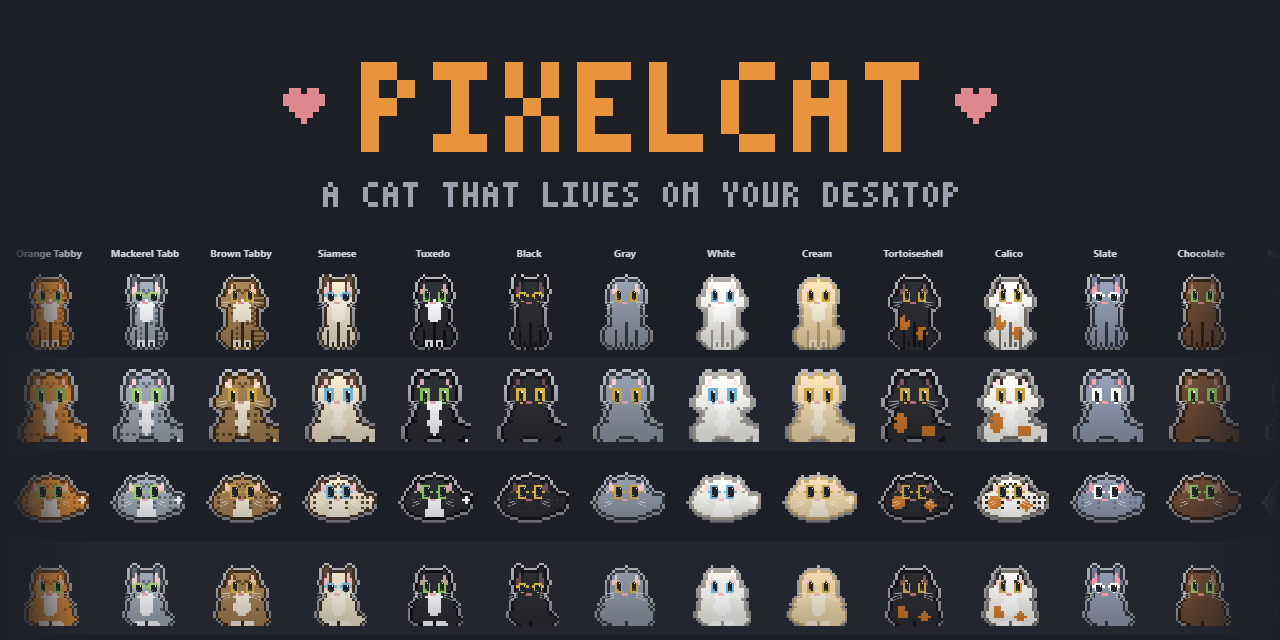
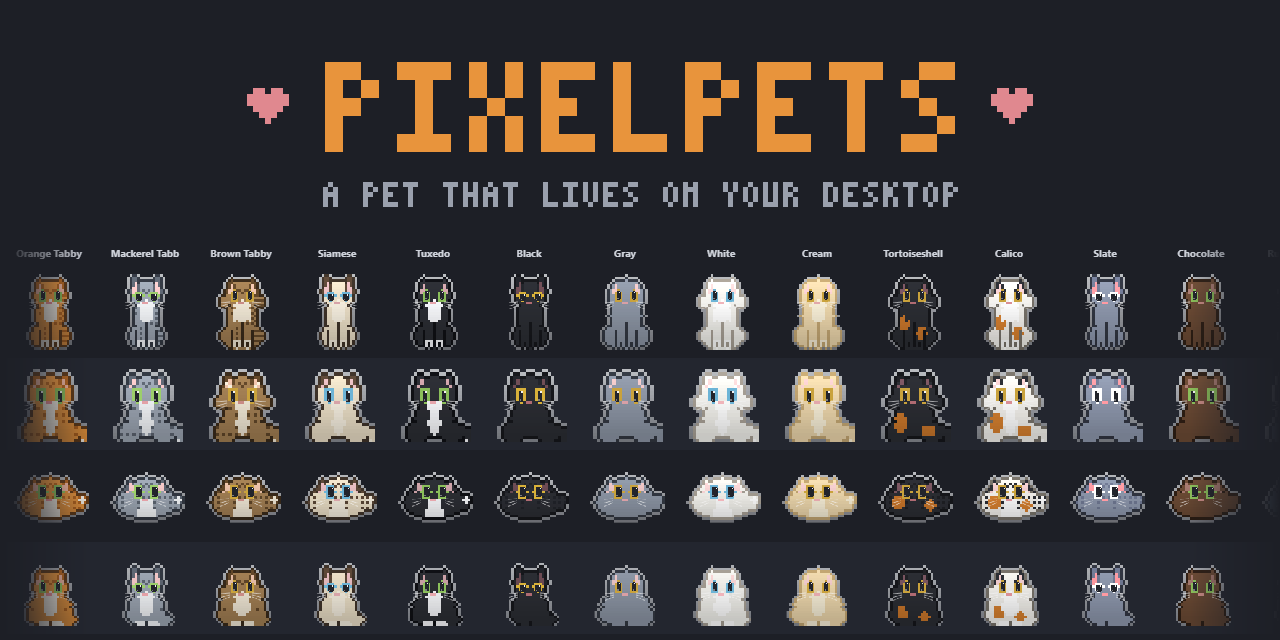
chore: finish the pixelcat rebrand everywhere it was still visible
Four parallel audits over packaging, docs, runtime source and the site. The
site and the app's own UI turned out to be already clean; what was left was
the places a text search for the new name could never reach, plus the docs
nobody re-read after 0.3.0.

The hero banner and the social card still said PIXELCAT in actual pixels.
Both wordmarks are drawn by generators into committed art, so the rename had
no way to touch them, and hero-banner.gif sits at the top of the README. Both
generators now render PIXELPETS and the assets are regenerated. Their taglines
went species-neutral at the same time, since the app has been a cat or a dog
since 0.3.0: the banner matches the site's "a cat or a dog that lives on your
desktop", the card reads "a pet that lives on your desktop" because that font
is a minimal subset with no G in it.

The agent integrations called the app pixelcat in every README title, in the
setup prose and in the /ABSOLUTE/PATH/TO/pixelcat checkout placeholders, which
is what anyone wiring up a Claude Code, Codex, Cursor, Kiro or Antigravity
hook reads first. The placeholders moved in lockstep with the substitution in
install-hook.js that fills them in; the existing test covers that pairing.

Also: a fresh install made a shortcut called "pixelcat", the calendar worker
introduced itself to other people's servers as pixelcat-cal, the README
documented build outputs under names electron-builder stopped producing when
[…]

Changed region(s): [[0.1875, 0.0938, 0.8125, 0.25], [0.2812, 0.2812, 0.3125, 0.3438]]

diff --git a/scripts/make-demo-gif.js b/scripts/make-demo-gif.js
@@ -294,7 +294,7 @@ function sceneIntro(frames, o = {}) {
   const n = o.n || 26;
   for (let i = 0; i < n; i++) {
     const buf = newFrame();
-    if (o.title) drawText(buf, 'PIXELCAT', Math.round(H * 0.115), o.titleScale || 5, [255, 196, 92]);
+    if (o.title) drawText(buf, 'PIXELPETS', Math.round(H * 0.115), o.titleScale || 5, [255, 196, 92]);
     caption(buf, o.caption, o.capScale || 2);
     const bob = Math.round(Math.sin(i / 4) * 2);
     const look = Math.round(Math.sin(i / 5) * 3);
@@ -648,7 +648,7 @@ function setCanvas(w, h, px, baseY) { W = w; H = h; PX = px; BASE_Y = baseY; }
 function recipeDemo(wantMp4) {
   setCanvas(480, 340, 6, 250); SP = buildPoses(0); PAL = paletteFor(S.PATTERNS[0]);
   const frames = [];
-  sceneIntro(frames, { title: true, titleScale: 5, caption: 'A CAT THAT LIVES ON YOUR DESKTOP', capScale: 2 });
+  sceneIntro(frames, { title: true, titleScale: 5, caption: 'A CAT OR A DOG THAT LIVES ON YOUR DESKTOP', capScale: 2 });
   sceneNap(frames, { caption: 'NAPS WHEN IDLE' });
   sceneType(frames, { caption: 'TAPS ITS PAWS WHEN YOU TYPE' });
   sceneHunt(frames, { caption: 'POUNCES TO HUNT' });
@@ -662,7 +662,7 @@ function recipeDemo(wantMp4) {
 function recipeHero(wantMp4) {
   setCanvas(960, 360, 8, 316); SP = buildPoses(TUX); PAL = paletteFor(S.PATTERNS[TUX]);
   const frames = [];
-  sceneIntro(frames, { title: true, titleScale: 9, caption: 'A CAT THAT LIVES ON YOUR DESKTOP', capScale: 3, n: 30 });
+  sceneIntro(frames, { title: true, titleScale: 9, caption: 'A CAT OR A DOG THAT LIVES ON YOUR DESKTOP', capScale: 3, n: 30 });
   sceneType(frames, { n: 22 });
   scenePet(frames, { n: 26 });
   maybeDump(frames, 'hero');

diff --git a/scripts/install-hook.js b/scripts/install-hook.js
@@ -1,5 +1,5 @@
 #!/usr/bin/env node
-// Print a ready-to-use pixelcat work-status hook config for a given agent, with
+// Print a ready-to-use pixelpets work-status hook config for a given agent, with
 // the absolute path to agent-hook.js already filled in (the one manual step in
 // integrations/). It only PRINTS - copy the output into the noted location; it
 // never edits your agent's config for you.
@@ -30,11 +30,11 @@ if (!AGENTS[agent]) {
 const { file, target } = AGENTS[agent];
 let txt = fs.readFileSync(path.join(root, file), 'utf8');
 // Fill the placeholder directory with this checkout (longest variants first).
-txt = txt.split('/ABSOLUTE/PATH/TO/pixelcat').join(dir)
-  .split('/ABS/PATH/pixelcat').join(dir)
+txt = txt.split('/ABSOLUTE/PATH/TO/pixelpets').join(dir)
+  .split('/ABS/PATH/pixelpets').join(dir)
   .split('/ABS/PATH').join(dir);
 
-console.log(`# pixelcat work-status hook - ${agent}`);
+console.log(`# pixelpets work-status hook - ${agent}`);
 console.log(`# agent-hook.js: ${hookAbs}`);
 console.log(`# place into:    ${target}`);
 console.log('# ' + '-'.repeat(64) + '\n');

diff --git a/scripts/make-social-card.js b/scripts/make-social-card.js
@@ -117,9 +117,11 @@ for (let y = top; y < H; y++) for (let x = 0; x < FADE; x++) {
 }
 
 // Wordmark + tagline + flanking hearts in the clear band on top.
-drawText(buf, 'PIXELCAT', W / 2, 62, 18, ORANGE);
-drawText(buf, 'A CAT THAT LIVES ON YOUR DESKTOP', W / 2, 182, 5, MUTED);
-const wm = textWidth('PIXELCAT', 18);
+drawText(buf, 'PIXELPETS', W / 2, 62, 18, ORANGE);
+// Species-neutral since 0.3.0, when the app became a cat OR a dog. Not "CAT OR DOG"
+// because FONT here is a minimal subset with no G in it.
+drawText(buf, 'A PET THAT LIVES ON YOUR DESKTOP', W / 2, 182, 5, MUTED);
+const wm = textWidth('PIXELPETS', 18);
 drawHeart(buf, Math.round(W / 2 - wm / 2 - 78), 88, 6, PINK);
 drawHeart(buf, Math.round(W / 2 + wm / 2 + 36), 88, 6, PINK);
 

diff --git a/extras/lobby-jam.html b/extras/lobby-jam.html
@@ -3,7 +3,7 @@
 <head>
 <meta charset="utf-8" />
 <meta name="viewport" content="width=device-width, initial-scale=1" />
-<title>PixelCat · Lobby Jam</title>
+<title>pixelpets · Lobby Jam</title>
 <style>
   :root{
     --bg-0:#15110d; --bg-1:#241a12; --card:#1c1611cc;
@@ -61,7 +61,7 @@
 </head>
 <body>
   <main class="card">
-    <div class="eyebrow">PixelCat</div>
+    <div class="eyebrow">pixelpets</div>
     <h1>Lobby <span class="accent">Jam</span></h1>
     <p class="sub">An endless, improvised lo-fi guitar - every note synthesized live in code.<br>No samples, no loops. It never plays the same thing twice.</p>
 

diff --git a/src/cal-worker.js b/src/cal-worker.js
@@ -63,7 +63,7 @@ function fetchOnce(url, address) {
       port: url.port || (isHttps ? 443 : 80),
       path: url.pathname + url.search,
       timeout: FETCH_TIMEOUT,
-      headers: { 'user-agent': 'pixelcat-cal', accept: 'text/calendar,*/*', host: url.host },
+      headers: { 'user-agent': 'pixelpets-cal', accept: 'text/calendar,*/*', host: url.host },
     };
     if (isHttps) opts.servername = url.hostname;   // TLS SNI + cert validation against the real hostname
     const req = mod.get(opts, (res) => {

diff --git a/CHANGELOG.md b/CHANGELOG.md
@@ -19,6 +19,14 @@ Notable changes to **pixelpets**. All art and sound are original/procedural (no 
 - **Calendar event titles are length-capped** before they become a bubble and a Windows toast. They come from someone else's calendar and, unlike reminders and the pinned note, arrived with no bound at all.
 - **`--shot` previews stopped cropping their own canvas.** The preview window was 20px narrower than the canvas the renderer sizes itself to, so every capture quietly lost the right-hand edge and the missing pixels read as a rendering bug in whatever was being previewed. The two sizes are now tied together and pinned by a test.
 
+### Rebrand loose ends
+- **The hero banner and the social card still said PIXELCAT in pixels.** Both wordmarks are baked into generated art rather than written in markup, so the 0.3.0 rename could not reach them and no text search for the new name would ever have found them. `hero-banner.gif` is the first thing on the README, which made it the most-seen stale branding left anywhere. Both generators now render `PIXELPETS`, and the committed assets have been regenerated. The taglines went species-neutral with them: the banner reads "a cat or a dog that lives on your desktop" (matching the site), the card reads "a pet that lives on your desktop".
+- **The agent integrations still called the app pixelcat** in every README title, in the setup prose, and in the `/ABSOLUTE/PATH/TO/pixelcat` checkout placeholders. Those pages are the first thing anyone wiring up a Claude Code, Codex, Cursor, Kiro or Antigravity hook reads. The placeholders moved in lockstep with the substitution in `scripts/install-hook.js` that fills them in, which a test already covers.
+- **A fresh install created a shortcut called "pixelcat"** (`nsis.shortcutName`). It is cosmetic and separate from the app identity, so it was safe to correct.
+- **The calendar worker introduced itself to other people's servers as `pixelcat-cal`** in its User-Agent.
+- The standalone Lobby Jam page under `extras/` still carried the old name in its title and header.
+- Deliberately left alone, and pinned by `tests/bridge-paths.test.js` so a future sweep has to read the reasoning first: the `appId`, the `%TEMP%/pixelcat-*` bridge paths that installed hooks already write to, the `%APPDATA%/pixelcat` legacy directory that the migration exists to find, the `PixelcatPreview` global, and the site's `pixelcat.coat` localStorage key. The `pixelcat-jet.vercel.app` URLs stay until the Vercel project itself is renamed.
+
 ### Added
 - **`--shot --note="<text>"`** pins a speech bubble open in a preview capture, so wrapping and edge clamping can be checked against a real font.
 - **`launch-pixelpets.vbs`**, a silent Windows launcher for running from source, is now part of the repo instead of a local-only file. `npm start` leaves a console window sitting behind the pet, which is why a shortcut wants this instead. It resolves the project from its own location rather than a hard-coded path, so moving or renaming the folder cannot leave the shortcut pointing at nothing, and it says what is wrong if dependencies were never installed rather than failing silently.

diff --git a/integrations/kiro/README.md b/integrations/kiro/README.md
@@ -1,4 +1,4 @@
-# Kiro → pixelcat
+# Kiro → pixelpets
 
 Kiro has two surfaces - the **IDE** (UI hooks) and the **CLI** (config file).
 
@@ -11,9 +11,9 @@ Kiro has two surfaces - the **IDE** (UI hooks) and the **CLI** (config file).
 
    | Trigger | Command |
    |---------|---------|
-   | **Prompt Submit** | `node "/ABS/PATH/pixelcat/agent-hook.js" thinking` |
-   | **Pre Tool Use** | `node "/ABS/PATH/pixelcat/agent-hook.js" working` |
-   | **Agent Stop** | `node "/ABS/PATH/pixelcat/agent-hook.js" done` |
+   | **Prompt Submit** | `node "/ABS/PATH/pixelpets/agent-hook.js" thinking` |
+   | **Pre Tool Use** | `node "/ABS/PATH/pixelpets/agent-hook.js" working` |
+   | **Agent Stop** | `node "/ABS/PATH/pixelpets/agent-hook.js" done` |
 
 4. **Create Hook** for each. (Timeout defaults to 60s.)
 
@@ -25,13 +25,13 @@ CLI hooks live in an agent JSON file - local `.kiro/agents/<name>.json` or globa
 ```json
 "hooks": {
   "userPromptSubmit": [
-    { "command": "node \"/ABS/PATH/pixelcat/agent-hook.js\" thinking" }
+    { "command": "node \"/ABS/PATH/pixelpets/agent-hook.js\" thinking" }
   ],
   "preToolUse": [
-    { "matcher": "*", "command": "node \"/ABS/PATH/pixelcat/agent-hook.js\" working" }
+    { "matcher": "*", "command": "node \"/ABS/PATH/pixelpets/agent-hook.js\" working" }
   ],
   "stop": [
-    { "command": "node \"/ABS/PATH/pixelcat/agent-hook.js\" done" }
+    { "command": "node \"/ABS/PATH/pixelpets/agent-hook.js\" done" }
   ]
 }
 ```

diff --git a/integrations/README.md b/integrations/README.md
@@ -1,12 +1,12 @@
 # AI agent work-status reactions
 
-pixelcat reacts to a coding agent's work status: a **thinking** bubble while it
+pixelpets reacts to a coding agent's work status: a **thinking** bubble while it
 plans, a **working** spinner while it edits/tests/builds, a startled **flinch** on
 errors, and a happy **hop** when it finishes. Any agent that can run a shell
 command on its lifecycle events can drive the cat through the bundled helper:
 
 ```
-node "/ABSOLUTE/PATH/TO/pixelcat/agent-hook.js" <state>
+node "/ABSOLUTE/PATH/TO/pixelpets/agent-hook.js" <state>
 ```
 
 `agent-hook.js` is **hook-safe**: it drains stdin and prints `{"continue": true}`,
@@ -42,7 +42,7 @@ copy it into the location noted at the top of the output.
 - **Antigravity** → [`antigravity/`](antigravity/) - `.agents/hooks.json` (see notes)
 - **Kiro** → [`kiro/`](kiro/) - add via the Agent Hooks UI ("Run Command")
 
-> **Replace `/ABSOLUTE/PATH/TO/pixelcat/`** with the real path to your checkout,
+> **Replace `/ABSOLUTE/PATH/TO/pixelpets/`** with the real path to your checkout,
 > using forward slashes on Windows too, e.g.
-> `node "C:/Users/you/pixelcat/agent-hook.js" working`.
+> `node "C:/Users/you/pixelpets/agent-hook.js" working`.
 > Hooks run from varying working directories, so an **absolute path is required**.

diff --git a/integrations/antigravity/README.md b/integrations/antigravity/README.md
@@ -1,4 +1,4 @@
-# Antigravity → pixelcat
+# Antigravity → pixelpets
 
 Antigravity (2.0+) supports event-driven **hooks** that run a local shell command
 at points in the agent loop. The hooks file uses a Claude-Code-style schema:
@@ -11,19 +11,19 @@ slashes on Windows too):
 
 ```json
 {
-  "pixelcat-thinking": {
+  "pixelpets-thinking": {
     "UserPromptSubmit": [
-      { "hooks": [{ "type": "command", "command": "node \"/ABS/PATH/pixelcat/agent-hook.js\" thinking" }] }
+      { "hooks": [{ "type": "command", "command": "node \"/ABS/PATH/pixelpets/agent-hook.js\" thinking" }] }
     ]
   },
-  "pixelcat-working": {
+  "pixelpets-working": {
     "PreToolUse": [
-      { "matcher": "*", "hooks": [{ "type": "command", "command": "node \"/ABS/PATH/pixelcat/agent-hook.js\" working" }] }
+      { "matcher": "*", "hooks": [{ "type": "command", "command": "node \"/ABS/PATH/pixelpets/agent-hook.js\" working" }] }
     ]
   },
-  "pixelcat-done": {
+  "pixelpets-done": {
     "Stop": [
-      { "hooks": [{ "type": "command", "command": "node \"/ABS/PATH/pixelcat/agent-hook.js\" done" }] }
+      { "hooks": [{ "type": "command", "command": "node \"/ABS/PATH/pixelpets/agent-hook.js\" done" }] }
     ]
   }
 }

diff --git a/integrations/claude-code/README.md b/integrations/claude-code/README.md
@@ -1,10 +1,10 @@
-# Claude Code → pixelcat
+# Claude Code → pixelpets
 
 Merge [`settings.hooks.json`](settings.hooks.json) into your `~/.claude/settings.json`
-(under the `hooks` key), replacing `/ABSOLUTE/PATH/TO/pixelcat/` with your checkout
+(under the `hooks` key), replacing `/ABSOLUTE/PATH/TO/pixelpets/` with your checkout
 path (forward slashes on Windows too).
 
 Mapping: `UserPromptSubmit` → thinking · `PreToolUse` → working · `Stop` → done.
 
-Restart Claude Code (or start a new session). While pixelcat is running it will
+Restart Claude Code (or start a new session). While pixelpets is running it will
 show a thinking bubble, a working spinner, and a happy hop as Claude Code works.

diff --git a/README.md b/README.md
@@ -414,8 +414,8 @@ file, and imported coats merge into your set by name.
 ## Build a standalone app
 
 ```powershell
-npm run pack    # portable build -> dist/win-unpacked/pixelcat.exe (no installer)
-npm run dist    # Windows installer -> dist/pixelcat Setup <version>.exe
+npm run pack    # portable build -> dist/win-unpacked/pixelpets.exe (no installer)
+npm run dist    # Windows installer -> dist/pixelpets Setup <version>.exe
 ```
 
 `pack` works out of the box. `dist` (the NSIS installer) needs permission to

diff --git a/integrations/codex/README.md b/integrations/codex/README.md
@@ -1,7 +1,7 @@
-# Codex CLI → pixelcat
+# Codex CLI → pixelpets
 
 Merge [`config.toml`](config.toml) into your `~/.codex/config.toml`, replacing
-`/ABSOLUTE/PATH/TO/pixelcat/` with your checkout path (forward slashes on Windows
+`/ABSOLUTE/PATH/TO/pixelpets/` with your checkout path (forward slashes on Windows
 too).
 
 Mapping: `UserPromptSubmit` → thinking · `PreToolUse` → working · `Stop` → done.
